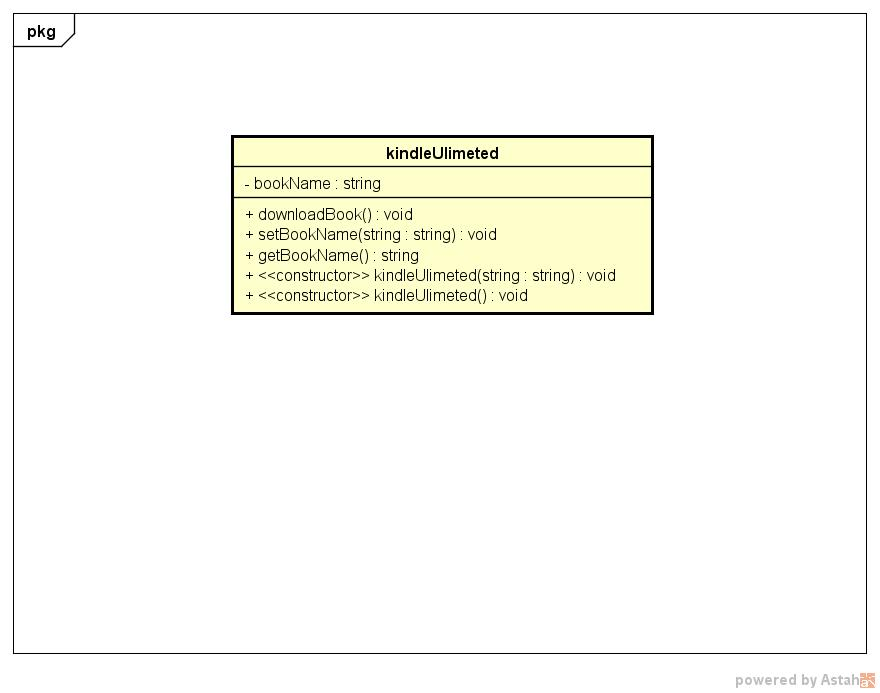
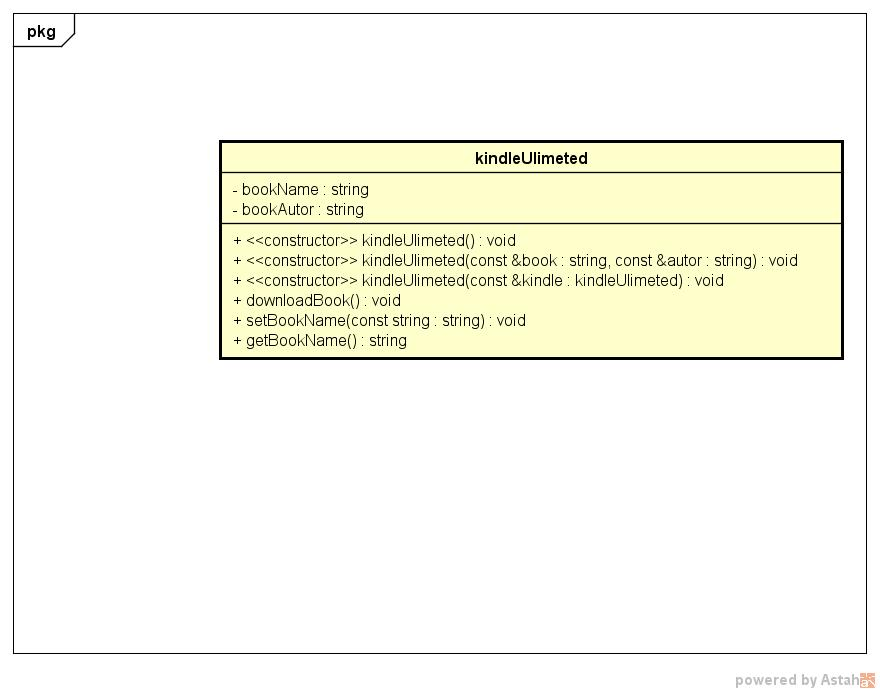
Add string atribute, copy constructor and const in variables

Changed region(s): [[0.2455, 0.1818, 0.9818, 0.5455]]

diff --git a/kindleUlimeted.cpp b/kindleUlimeted.cpp
@@ -9,16 +9,23 @@ using std::getline;
 using std::string;
 
 
-	void KindleUnlimeted::KindleUnlimeted(){
+	KindleUnlimeted::KindleUnlimeted(){
 		this->bookName = "";
+        this->bookAutor = "";
 	}
 	
-	void KindleUnlimeted::KindleUnlimeted(const string &book){
+	KindleUnlimeted::KindleUnlimeted(const string &book, const string &autor){
 		this->bookName = book;
+        this->bookAutor = autor
 	}
+    
+    KindleUnlimeted::KindleUnlimited(const KindleUnlimeted &kindle){
+        this->bookName = kindle.bookName;
+        this->bookAutor = kindle.bookAutor;
+    }
 	
 	//Método para fazer o download de um livro
-	void KindleUnlimeted::downloadBook(string bookName)
+	void KindleUnlimeted::downloadBook(const string bookName)
 	{
 		cout << "Downloading " << KidleUnlimeted.getBookName << "..." << endl;
 	}

diff --git a/main.cpp b/main.cpp
@@ -7,31 +7,6 @@ using std::endl;
 using std::getline;
 using std::string;
 
-/*
-class KindleUnlimeted
-{
-public:
-	//Método para fazer o download de um livro
-	void downloadBook()
-	{
-		cout << "Downloading " << bookName << "..." << endl;
-	}
-	//Método para definir o nome do livro
-	void setBookName(string book)
-	{
-		bookName = book;
-	}
-	//Método para retornar o nome do livro
-	string getBookName()
-	{
-		return bookName;
-	}
-
-private:
-		string bookName;	
-};
-*/
-
 int main ()
 {
 	string nameOfBook;

diff --git a/kindleUlimeted.h b/kindleUlimeted.h
@@ -1,4 +1,4 @@
-#ifdef _KINDLE_H_
+#ifndef _KINDLE_H_
 #define _KIDLE_H_
 
 #include <string>
@@ -8,14 +8,15 @@ class KindleUnlimeted
 {
 public:
 	KindleUnlimeted();
-	KindleUnlimeted(string);
+	KindleUnlimeted(string const);
 	//Método para fazer o download de um livro
-	void downloadBook(string);
-	void setBookName(string);
+	void downloadBook(string const);
+	void setBookName(string const);
 	string getBookName();
 
 private:
-	string bookName;	
+	string bookName;
+    string bookAutor
 };
 
 #endif
